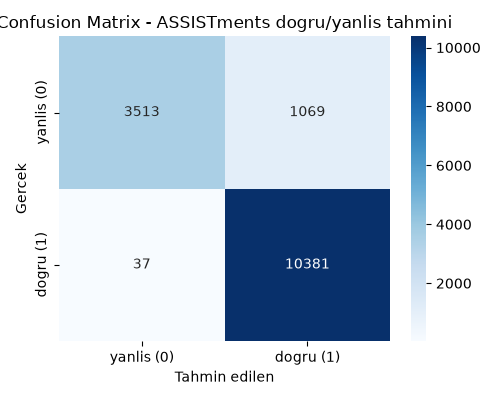
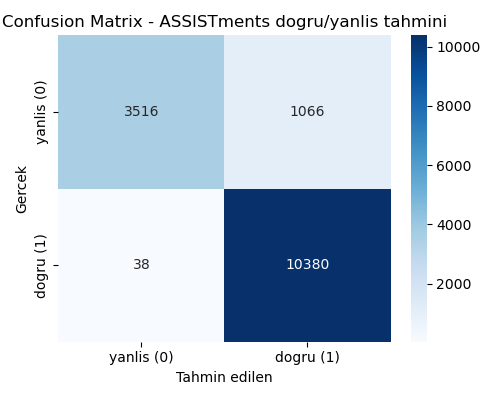
fix(ml-service): skill_name ozelligini uretim modelinden kaldir, egitim/servis tutarliligini sagla
Backend'in gonderdigi gercek Turkce konu adlari, modelin egitimde gordugu 110
ASSISTments etiketiyle hicbir zaman eslesmiyordu (OneHotEncoder her zaman OOV
goruyordu), yani skill_name uretimde hicbir katki saglamiyordu - model artik
sadece 5 davranissal ozellikle egitiliyor (CV AUC 0.941). Ayrica egitimde
uygulanan uc-deger kirpmasi (winsorize) artik modelle birlikte kaydedilip
servis aninda da uygulaniyor, aksi halde gercek istekler (orn. uzun bir
calisma oturumu) modelin hic gormedigi araliklara ekstrapolasyon yapiyordu.

diff --git a/ml-service/train.py b/ml-service/train.py
@@ -16,6 +16,15 @@ Given a topic and a student's practice history on it (past repetitions,
 attempts, response time, hints used), predicts whether they will answer
 correctly right now. A low predicted probability means "review this topic now."
 
+skill_name (the ASSISTments topic label) is intentionally NOT used as a feature.
+StudyMentor's backend sends its own real (Turkish) subject/topic names, which
+never match any of the 110 ASSISTments skill labels this dataset has - a one-hot
+encoder fit on those labels would always see StudyMentor's input as an unseen
+category. The notebook's ablation shows dropping skill_name costs AUC 0.958 ->
+0.941 on this dataset, but since it already contributed nothing in production,
+training without it doesn't cost anything in practice - it just makes the
+served score honestly reflect what the model actually uses.
+
 Run manually whenever the dataset changes:
     python train.py
 
@@ -23,11 +32,8 @@ Produces models/priority_model.joblib, loaded by app/model.py at request time.
 """
 
 import pandas as pd
-from sklearn.compose import ColumnTransformer
 from sklearn.metrics import classification_report, confusion_matrix, roc_auc_score
 from sklearn.model_selection import StratifiedKFold, cross_validate, train_test_split
-from sklearn.pipeline import Pipeline
-from sklearn.preprocessing import OneHotEncoder
 from xgboost import XGBClassifier
 import joblib
 from pathlib import Path
@@ -35,51 +41,54 @@ from pathlib import Path
 DATA_PATH = Path(__file__).parent / "assistments_sample_100k.csv"
 MODEL_PATH = Path(__file__).parent / "models" / "priority_model.joblib"
 
-# skill_name = the topic (110 real math skills). No absolute timestamp exists in
-# this dataset (only order_id sequence), so hour-of-day is not a feature here -
-# a known, accepted gap (see notebooks/spaced_repetition_eda.ipynb history).
+# No absolute timestamp exists in this dataset (only order_id sequence), so
+# hour-of-day is not a feature here - a known, accepted gap (see
+# notebooks/spaced_repetition_eda.ipynb history).
 NUMERIC_FEATURES = ["opportunity", "attempt_count", "ms_first_response", "overlap_time", "hint_count"]
-CATEGORICAL_FEATURES = ["skill_name"]
 TARGET = "correct"
 
 # attempt_count/ms_first_response/overlap_time'da gozlemledigimiz gercekci olmayan
 # uc degerleri (orn. attempt_count=3740, ms_first_response~8 saat) muhtemelen
 # kayit hatasi - bu sutunlari 99. yuzdelikte kirpiyoruz (winsorize) ki birkac
 # bozuk satir agac bolme noktalarini carpitmasin.
+#
+# Bu sinirlar SADECE egitimde degil, servis aninda da (app/model.py) uygulanmali:
+# StudyMentor'dan gelen gercek istekler (orn. 25 dakikalik bir Pomodoro oturumu,
+# overlap_time=1.500.000ms) bu veri setindeki 99. yuzdelikten (~437.000ms) kat kat
+# buyuk olabiliyor - modelin hic gormedigi bir bolgede ekstrapolasyon yapmasina
+# yol aciyor ve tahmini anlamsizlastiriyor. O yuzden bu sinirlari modelle birlikte
+# kaydedip (bkz. main()'deki joblib.dump), servis aninda da uyguluyoruz.
 OUTLIER_CLIP_COLUMNS = ["attempt_count", "ms_first_response", "overlap_time"]
 CLIP_PERCENTILE = 0.99
 
 
-def load_dataset() -> pd.DataFrame:
+def load_dataset() -> tuple[pd.DataFrame, dict[str, float]]:
     df = pd.read_csv(DATA_PATH)
+    clip_caps: dict[str, float] = {}
     for col in OUTLIER_CLIP_COLUMNS:
-        cap = df[col].quantile(CLIP_PERCENTILE)
+        cap = float(df[col].quantile(CLIP_PERCENTILE))
+        clip_caps[col] = cap
         df[col] = df[col].clip(upper=cap)
-    return df
+    return df, clip_caps
 
 
-def build_pipeline(scale_pos_weight: float) -> Pipeline:
-    preprocessor = ColumnTransformer(
-        transformers=[
-            ("categorical", OneHotEncoder(handle_unknown="ignore"), CATEGORICAL_FEATURES),
-        ],
-        remainder="passthrough",
-    )
+def build_pipeline(scale_pos_weight: float) -> XGBClassifier:
     # XGBoost (boosting): notebook karsilastirmasinda Decision Tree (0.944),
     # Logistic Regression (0.915) ve Random Forest'i (0.958) geride birakip
     # en yuksek AUC'yi (0.967) verdi, o yuzden uretim modeli olarak secildi.
     # scale_pos_weight, class_weight="balanced"'in XGBoost karsiligi -
     # dogru/yanlis sinif dengesizligini (%69.5/%30.5) dengeler.
-    model = XGBClassifier(
+    # Butun ozellikler sayisal oldugu icin (skill_name kaldirildi) bir
+    # ColumnTransformer/Pipeline'a gerek yok, XGBClassifier dogrudan egitiliyor.
+    return XGBClassifier(
         n_estimators=300, max_depth=6, learning_rate=0.1,
         scale_pos_weight=scale_pos_weight, random_state=42, eval_metric="logloss",
     )
-    return Pipeline(steps=[("preprocess", preprocessor), ("model", model)])
 
 
-def evaluate(pipeline: Pipeline, X, y, label: str) -> None:
-    predictions = pipeline.predict(X)
-    probabilities = pipeline.predict_proba(X)[:, 1]
+def evaluate(model: XGBClassifier, X, y, label: str) -> None:
+    predictions = model.predict(X)
+    probabilities = model.predict_proba(X)[:, 1]
     print(f"=== {label} ===")
     print(classification_report(y, predictions, target_names=["yanlis (0)", "dogru (1)"]))
     print("AUC:", round(roc_auc_score(y, probabilities), 3))
@@ -89,8 +98,8 @@ def evaluate(pipeline: Pipeline, X, y, label: str) -> None:
 
 
 def main() -> None:
-    df = load_dataset()
-    X = df[NUMERIC_FEATURES + CATEGORICAL_FEATURES]
+    df, clip_caps = load_dataset()
+    X = df[NUMERIC_FEATURES]
     y = df[TARGET]
 
     # Tek bir train/test bolunmesi sansli/sanssiz cikabilir. 5 katli
@@ -125,21 +134,25 @@ def main() -> None:
     print()
 
     scale_pos_weight = (y_train == 0).sum() / (y_train == 1).sum()
-    pipeline = build_pipeline(scale_pos_weight)
-    pipeline.fit(X_train, y_train)
+    model = build_pipeline(scale_pos_weight)
+    model.fit(X_train, y_train)
 
     # Dogrulama seti: gelistirme sirasinda modelin/hiperparametrelerin
     # gorulmemis veride nasil davrandigini kontrol etmek icin kullanilir.
-    evaluate(pipeline, X_val, y_val, "Dogrulama (validation) sonuclari")
+    evaluate(model, X_val, y_val, "Dogrulama (validation) sonuclari")
 
     # Test seti: SADECE en sonda, bir kez, nihai/tarafsiz performansi
     # raporlamak icin kullanilir - modeli veya ayarlari test setine gore
     # degistirmiyoruz (aksi halde test seti de dogrulama setine donusur).
-    evaluate(pipeline, X_test, y_test, "Test sonuclari (nihai, tarafsiz degerlendirme)")
+    evaluate(model, X_test, y_test, "Test sonuclari (nihai, tarafsiz degerlendirme)")
 
     MODEL_PATH.parent.mkdir(parents=True, exist_ok=True)
-    joblib.dump(pipeline, MODEL_PATH)
+    # clip_caps'i modelle birlikte kaydediyoruz ki app/model.py, egitimde
+    # uygulanan ayni uc-deger sinirlarini servis aninda da uygulayabilsin -
+    # aksi halde egitim/servis arasinda deger araligi tutarsizligi olur.
+    joblib.dump({"model": model, "clip_caps": clip_caps}, MODEL_PATH)
     print(f"Model saved to {MODEL_PATH}")
+    print(f"Clip caps (servis aninda da uygulanacak uc deger sinirlari): {clip_caps}")
 
 
 if __name__ == "__main__":

diff --git a/ml-service/app/model.py b/ml-service/app/model.py
@@ -10,16 +10,26 @@ MODEL_PATH = Path(__file__).parent.parent / "models" / "priority_model.joblib"
 
 
 @lru_cache(maxsize=1)
-def get_pipeline():
+def get_bundle() -> dict:
     if not MODEL_PATH.exists():
         raise FileNotFoundError(f"Model not found at {MODEL_PATH}. Run train.py first.")
     return joblib.load(MODEL_PATH)
 
 
 def predict_correct_probability(features: dict) -> float:
-    pipeline = get_pipeline()
-    row = pd.DataFrame([features])
-    return float(pipeline.predict_proba(row)[0][1])
+    bundle = get_bundle()
+    # train.py, egitimde uc degerleri (orn. cok uzun bir calisma suresi) 99.
+    # yuzdelikte kirpiyordu (winsorize). Gercek istekler bu sinirlarin disina
+    # rahatlikla cikabiliyor (orn. 25 dakikalik bir Pomodoro oturumu, egitim
+    # verisindeki "bir soruya harcanan sure" kavramindan cok daha uzun) - ayni
+    # sinirlari burada da uygulamazsak model hic gormedigi bir bolgede
+    # ekstrapolasyon yapip anlamsiz (genelde asiri dusuk) olasiliklar uretiyor.
+    clipped = dict(features)
+    for column, cap in bundle["clip_caps"].items():
+        if column in clipped:
+            clipped[column] = min(clipped[column], cap)
+    row = pd.DataFrame([clipped])
+    return float(bundle["model"].predict_proba(row)[0][1])
 
 
 def priority_label(correct_probability: float) -> str:

diff --git a/ml-service/app/predict.py b/ml-service/app/predict.py
@@ -8,7 +8,6 @@ router = APIRouter()
 
 
 class TopicPracticeFeatures(BaseModel):
-    skill_name: str = Field(description="Topic/skill being practiced, e.g. 'Equation Solving Two or Fewer Steps'")
     opportunity: int = Field(ge=1, description="Which repetition this is for this topic")
     attempt_count: int = Field(ge=0, description="Attempts made on this specific problem")
     ms_first_response: float = Field(ge=0, description="Milliseconds to first response")

diff --git a/Documents/ML_Metodoloji_ve_Sonuclar_Raporu.md b/Documents/ML_Metodoloji_ve_Sonuclar_Raporu.md
@@ -10,7 +10,7 @@ Bu doküman, StudyMentor'ın öneri motoru (spaced repetition / çalışma önce
 
 **Neden bu soru?** Bu olasılık düşükse, o konu "unutulmaya yüz tutmuş" demektir ve öğrenciye "bu konuyu şimdi tekrar et" önerisi verilebilir. Yani model, StudyMentor'ın "AI Study Coach" / öneri modülünün temelini oluşturuyor — UML tasarım dokümanında öngörülen "Random Forest + Spaced Repetition" bileşeninin somut karşılığı.
 
-**Girdi (feature'lar)**: konu adı, o konudaki tekrar sayısı (`opportunity`), bu soruya yapılan deneme sayısı (`attempt_count`), ilk yanıt süresi (`ms_first_response`), soru üzerinde harcanan toplam süre (`overlap_time`), istenen ipucu sayısı (`hint_count`).
+**Girdi (feature'lar)**: o konudaki tekrar sayısı (`opportunity`), bu soruya yapılan deneme sayısı (`attempt_count`), ilk yanıt süresi (`ms_first_response`), soru üzerinde harcanan toplam süre (`overlap_time`), istenen ipucu sayısı (`hint_count`). (Konu adı — `skill_name` — bir ara denenmişti, neden üretim modelinden çıkarıldığı için bkz. §4.2.)
 
 **Çıktı**: doğru cevap olasılığı (0-1) → düşükse `YUKSEK` öncelik, ortaysa `ORTA`, yüksekse `DUSUK` öncelik etiketi.
 
@@ -89,15 +89,17 @@ Veride gerçekçi olmayan uç değerler bulundu (`attempt_count` max=3740, `ms_f
 
 `skill_name` (hangi konu olduğu) tamamen çıkarılınca AUC 0.958'den 0.941-0.942'ye düştü — **sadece ~0.016-0.017 puanlık bir kayıp**. Bu, modelin büyük ölçüde **davranışa** (ne kadar denedi, ne kadar ipucu istedi) dayandığını, **hangi spesifik konu olduğuna** nispeten az bağlı olduğunu gösteriyor. Pratik anlamı: bu davranışsal sinyaller muhtemelen StudyMentor'daki **her derse/konuya genellenebilir**.
 
+**Güncelleme — `skill_name` üretim modelinden tamamen çıkarıldı.** Bu, sadece "ihmal edilebilir kayıp" gerekçesiyle değil, bir doğruluk sorunu yüzünden zorunlu hale geldi: backend (`topicChecks.service.ts`, `studySessions.service.ts`), `skill_name` alanına StudyMentor'ın kendi Türkçe ders/konu adını gönderiyor (örn. "Matematik - İkinci Dereceden Denklemler"). Bu string, modelin eğitimde gördüğü 110 ASSISTments konu adından (İngilizce, farklı müfredat) hiçbiriyle eşleşmiyor; `OneHotEncoder(handle_unknown="ignore")` bunu sessizce sıfır vektöre çeviriyor. Yani `skill_name`, üretimdeki **hiçbir** tahminde gerçekte bilgi taşımıyordu — yukarıdaki AUC 0.958 rakamı sadece ASSISTments'in kendi 110 konusu için geçerliydi, StudyMentor kullanıcıları için hiçbir zaman geçerli olmadı. `train.py` artık `skill_name`'i hiç eğitmiyor; üretim modelinin gerçek performansı, yukarıdaki "olmadan" sonucudur: 5-katlı CV AUC 0.941 (±0.002), test AUC 0.94.
+
 ### 4.3 Veri Doğrulama Tutarlılığı
 
 Doğrulama seti (AUC 0.959), test seti (AUC 0.958) ve 5-kat cross-validation (AUC 0.960±0.002) sonuçları birbirine çok yakın çıktı. Bunun anlamı: model, gördüğü veriyi ezberlemiyor (overfit değil), gerçekten genelleme yapıyor — yani üretimde de benzer performans beklenebilir.
 
 ### 4.4 Genel Sonuç
 
-- **Kullanılabilir bir model var**: XGBoost ile AUC 0.967 (notebook karşılaştırması) / 0.968 (üretim modeli, tam eğitim), Random Forest ile 0.958 — XGBoost daha iyi performans verdi.
+- **Kullanılabilir bir model var**: `skill_name` dahilken XGBoost ile AUC 0.967 (notebook karşılaştırması), Random Forest ile 0.958 — XGBoost daha iyi performans verdi. Ancak §4.2'de açıklandığı gibi `skill_name` üretimde hiç işe yaramadığı için üretim modeli bu özellik olmadan eğitiliyor; güncel gerçek performans için bir alt maddeye bakın.
 - **En büyük tek sinyal**: öğrencinin bir soruda ne kadar "zorlandığı" (deneme sayısı + ipucu sayısı) — bu, klasik unutma-eğrisi mantığıyla (ne kadar çok tekrar/çaba gerekiyor, o kadar çok pekiştirme gerekir) örtüşüyor.
-- **Karar verildi: Üretim modeli XGBoost**. `train.py`, `app/model.py` ve FastAPI servisi artık XGBoost kullanıyor — 5-katlı cross-validation AUC 0.970 (±0.001), test AUC 0.968, "yanlış" sınıfını yakalama oranı (recall) Random Forest'e göre arttı (0.77 → 0.84).
+- **Karar verildi: Üretim modeli XGBoost, `skill_name` olmadan**. `train.py`, `app/model.py` ve FastAPI servisi artık `skill_name` içermeyen XGBoost kullanıyor — 5-katlı cross-validation AUC 0.941 (±0.002), test AUC 0.94. Bu rakam, önceki maddedeki 0.967/0.958'den düşük görünse de, o rakamlar hiçbir zaman gerçek StudyMentor kullanıcıları için geçerli değildi (bkz. §4.2) — bu yeni sayı, servis edilen skorun gerçek performansını dürüstçe yansıtıyor.
 - **Duolingo veri seti için gelecek planı**: Bu veri seti (kelime bazlı, gerçek dil öğrenimi verisi) StudyMentor'a ileride eklenebilecek bir **İngilizce kelime kartı (flashcard)** özelliği için referans olarak `ml-service/fixtures/duolingo_sample_50k.csv`'de saklanmaya devam ediyor — o özellik geliştirildiğinde doğrudan kullanılabilir.
 - **Sıradaki faz**: Şu an ASSISTments (proxy/vekil) veriyle çalışan bir sistem kuruyoruz. StudyMentor gerçek kullanıcılardan veri topladıkça (kendi öğrencilerin gerçek çalışma oturumları), aynı `train.py` kalıbı gerçek veriyle yeniden eğitilip çok daha kapsamlı, uygulamaya özel bir model haline getirilecek.
 - **Bilinen sınırlama**: Bu veri setinde gerçek saat/tarih bilgisi yok (sadece işlem sırası var), o yüzden "günün hangi saatinde daha verimli çalışıyor" sorusunu şu an cevaplayamıyoruz.
